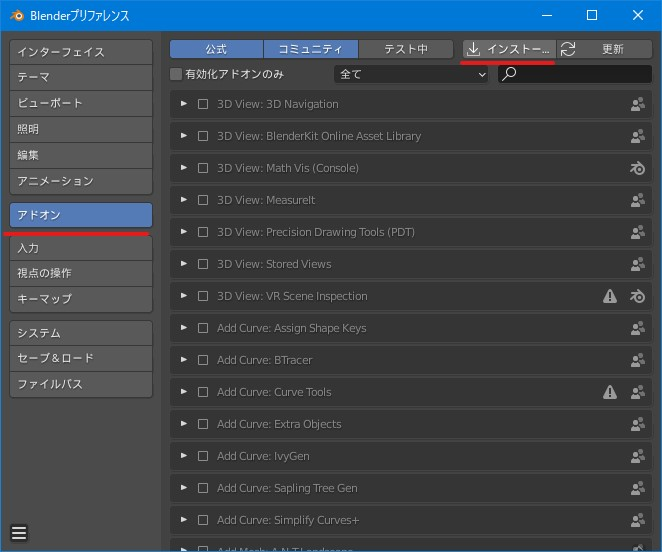
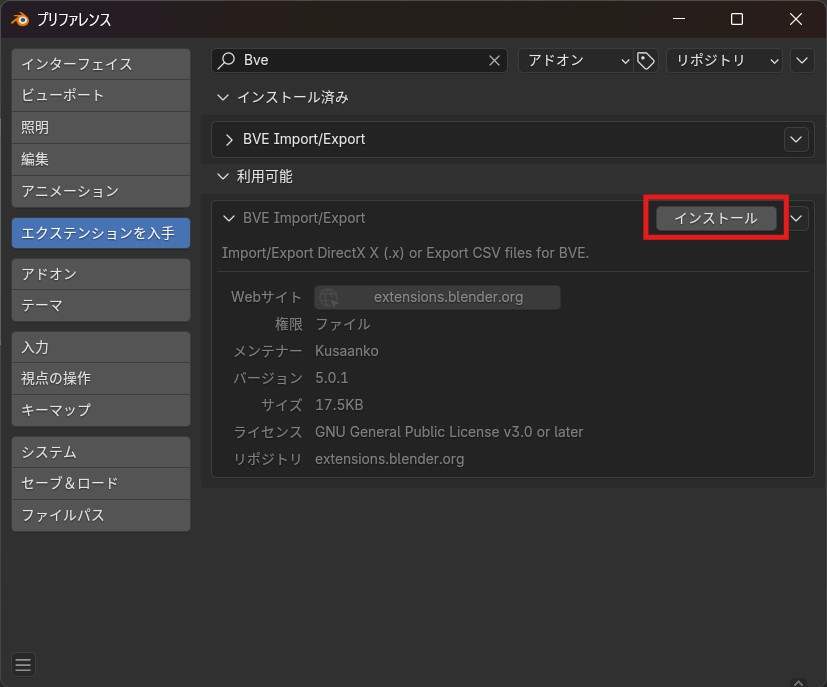
エクステンションからの入手方法を追加

diff --git a/README.md b/README.md
@@ -1,6 +1,8 @@
 # XFileSupport_BVE
 Bve用に設計されたBlender用のXファイル入出力アドオン
 
+Blender Extensions (https://extensions.blender.org/add-ons/bve-import-export/) から入手できます
+
 CSV出力にも対応しています。また、OpenBVE専用のCSV機能にも対応します。
 
 対応Blenderバージョン:4.3.0以降  
@@ -72,11 +74,17 @@ Wikiページを御覧ください。[Wiki](https://github.com/kusaanko/XFileSup
 <img src="for_readme/preference.jpg" width="500px"></img>  
 編集>プリファレンスをクリックして設定画面を出します  
 <img src="for_readme/install.jpg" width="500px"></img>  
-アドオン->インストールをクリックします  
-<img src="for_readme/install_addon.jpg" width="500px"></img>  
-ダウンロードしたXFileSupport.pyを選択してアドオンをインストールをクリックします。
-<img src="for_readme/check.jpg" width="500px;"></img>  
-「DirectX」と検索してこのプラグインが有効になっていることを確認してください。
+エクステンションを入手へ移動します。
+
+検索欄に「BVE」と入力し、BVE Import/Exportをインストールしてください。
+
+## アドオン版を利用の方
+新たにBlenderエクステンション版としてリリースしたため、アドオン版を利用していた方（ver 5.0.0より前のバージョン）は削除する必要があります。
+
+<img src="for_readme/Uninstall_addon.jpg" width="500px"></img>  
+プリファレンス→アドオンから「DirectX」と検索すると以前のバージョンのアドオンが出てきます。
+
+右側にあるアイコンをクリックして展開し、アンインストールボタンをクリックしてください。
 
 # ビルド / Build
 
